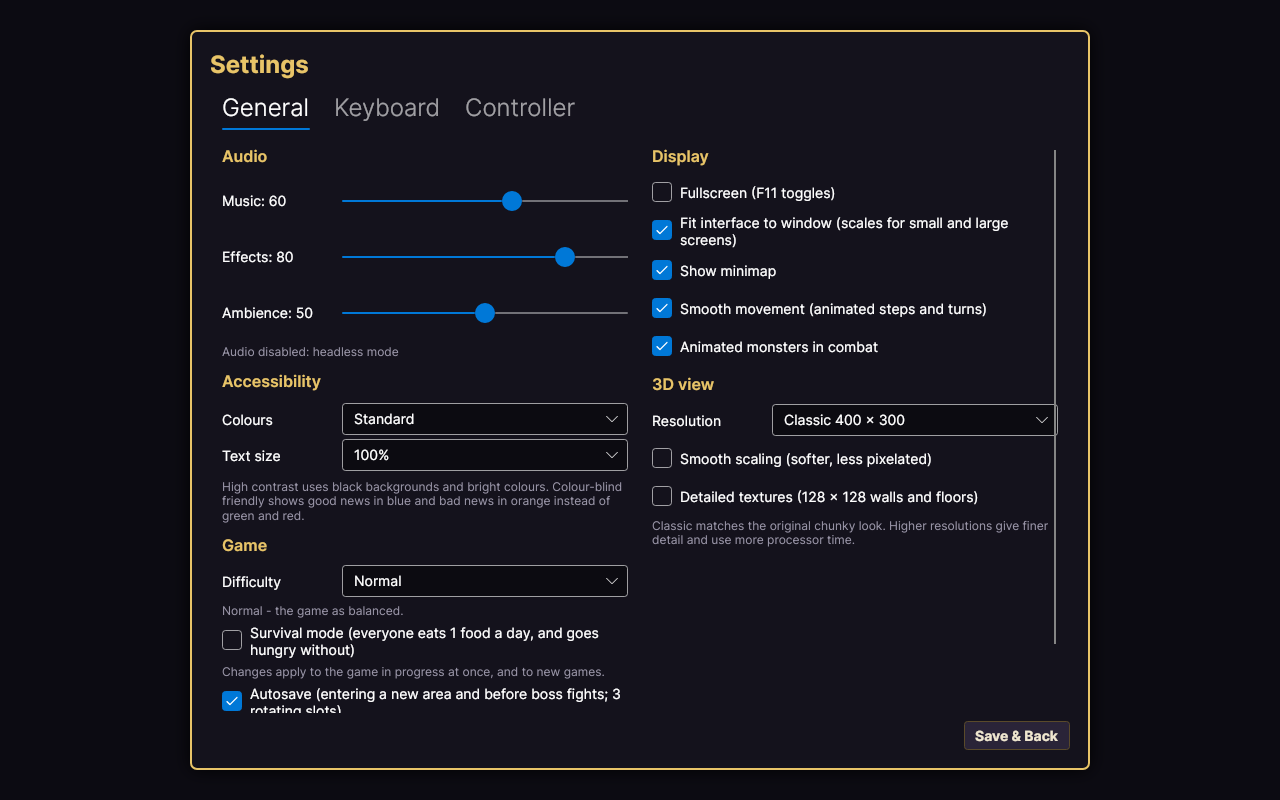
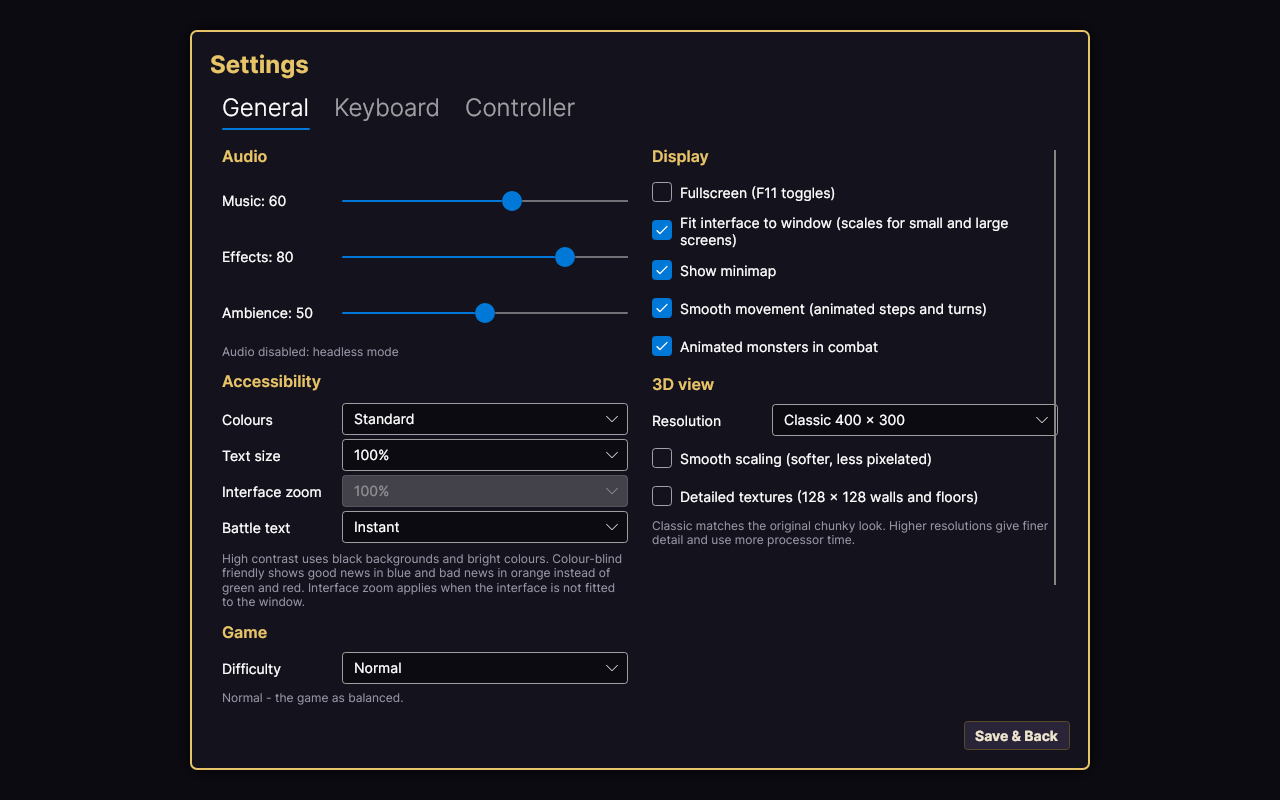
Accessibility: interface zoom, battle text speed, LOW health badge

Changed region(s): [[0.1562, 0.5938, 0.5, 0.9062]]

diff --git a/src/AVAMMB1.App/ViewModels/CombatViewModel.cs b/src/AVAMMB1.App/ViewModels/CombatViewModel.cs
@@ -185,14 +185,89 @@ public sealed partial class CombatViewModel : ViewModelBase
     /// <summary>Whether the active character knows spells.</summary>
     public bool CanCast => _combat.ActiveCharacter is { } c && _game.Services.Session.Rules.KnownSpells(c).Any();
 
-    private void AddLog(IEnumerable<GameMessage> messages)
+    private readonly Queue<GameMessage> _logQueue = new();
+    private Avalonia.Threading.DispatcherTimer? _logTimer;
+
+    /// <summary>Milliseconds between battle log lines (the Battle text setting); 0 shows them all at once.</summary>
+    private int LineDelay => _game.Services.Settings.BattleTextSpeed switch { 1 => 150, 2 => 350, 3 => 700, _ => 0 };
+
+    /// <summary>Whether battle lines are still being revealed.</summary>
+    public bool IsRevealing => _logQueue.Count > 0;
+
+    private void AddLog(IEnumerable<GameMessage> messages, bool flush = true)
     {
-        var list = messages.ToList();
-        _game.Services.PlayCues(list);
-        foreach (var m in list.Where(m => m.Text.Length > 0))
+        if (flush)
         {
-            Log.Add(new MessageViewModel(m));
+            FlushLog(); // acting shows whatever was still waiting at once
         }
+        var list = messages.ToList();
+        if (LineDelay == 0)
+        {
+            _game.Services.PlayCues(list);
+            foreach (var m in list.Where(m => m.Text.Length > 0))
+            {
+                ShowLine(m);
+            }
+            return;
+        }
+        var idle = _logQueue.Count == 0;
+        foreach (var m in list)
+        {
+            _logQueue.Enqueue(m);
+        }
+        if (idle)
+        {
+            RevealNext();
+        }
+        if (_logQueue.Count > 0)
+        {
+            _logTimer ??= new Avalonia.Threading.DispatcherTimer();
+            _logTimer.Interval = TimeSpan.FromMilliseconds(LineDelay);
+            _logTimer.Tick -= OnLogTick;
+            _logTimer.Tick += OnLogTick;
+            _logTimer.Start();
+        }
+    }
+
+    private void OnLogTick(object? sender, EventArgs e)
+    {
+        RevealNext();
+        if (_logQueue.Count == 0)
+        {
+            _logTimer?.Stop();
+        }
+    }
+
+    /// <summary>Shows the next queued line (with its sound), skipping silent sound-only entries.</summary>
+    private void RevealNext()
+    {
+        while (_logQueue.TryDequeue(out var m))
+        {
+            _game.Services.PlayCues([m]);
+            if (m.Text.Length > 0)
+            {
+                ShowLine(m);
+                return;
+            }
+        }
+    }
+
+    /// <summary>Shows every queued line at once.</summary>
+    public void FlushLog()
+    {
+        _logTimer?.Stop();
+        while (_logQueue.TryDequeue(out var m))
+        {
+            if (m.Text.Length > 0)
+            {
+                ShowLine(m);
+            }
+        }
+    }
+
+    private void ShowLine(GameMessage m)
+    {
+        Log.Add(new MessageViewModel(m));
         while (Log.Count > 60)
         {
             Log.RemoveAt(0);
@@ -330,7 +405,7 @@ public sealed partial class CombatViewModel : ViewModelBase
     {
         var outcome = _combat.Outcome;
         var (_, rewards) = _game.Services.Session.EndCombat();
-        AddLog(rewards);
+        AddLog(rewards, flush: false); // after the last blows have been read
         _game.AddMessages(rewards.Select(r => r with { Sound = null }));
         Phase = CombatPhase.Finished;
         Prompt = outcome switch
@@ -527,9 +602,9 @@ public sealed partial class CombatViewModel : ViewModelBase
 
     private void AutoStep()
     {
-        if (!IsAutoFighting)
+        if (!IsAutoFighting || IsRevealing)
         {
-            return;
+            return; // let the battle text catch up first
         }
         if (Phase == CombatPhase.Opening)
         {
@@ -689,7 +764,11 @@ public sealed partial class CombatViewModel : ViewModelBase
     }
 
     [RelayCommand]
-    private void Continue() => _game.CombatFinished();
+    private void Continue()
+    {
+        FlushLog();
+        _game.CombatFinished();
+    }
 
     /// <summary>True while a list (spells, items, allies) is open, where the D-pad should move between buttons.</summary>
     public bool WantsMenuNavigation => Phase is CombatPhase.Spell or CombatPhase.Item or CombatPhase.Ally;

diff --git a/src/AVAMMB1.App/ViewModels/InfoViewModels.cs b/src/AVAMMB1.App/ViewModels/InfoViewModels.cs
@@ -121,6 +121,7 @@ public sealed partial class HelpViewModel : ViewModelBase
         new("Lanterns and oil", "A Brass Lantern (150 gold) is the brightest light - 8 squares, with a warm glow. Equip it in the Light slot on any character's sheet (select it in the backpack and press Equip or Use); it lights the way for the whole party and burns oil only in dark places (1500 steps when full). The counter at the top right shows the oil left, and you are warned when it runs low. Use a Flask of Oil (4 gold) to add 750 steps - it fills an equipped lantern, or one still in a backpack; a lantern is bought full, so keep flasks until it burns down - or throw one in battle for 2d6 fire damage. Somewhere in the north lies a lantern that never needs oil."),
         new("Day and night", "Time passes as you travel - three minutes a step, eight hours a rest - and the clock is shown under your gold. From 20:00 to 05:00 it is night: under the open sky you see only 4 squares unless your light reaches further (a lantern burns outdoors at night, though not in town), more monsters are about - some only come out after dark - and elites are twice as common. Shops, training grounds and academies close for the night; inns, temples and taverns stay open, and a night at the inn lasts until 07:00."),
         new("Resting and healing", "Rest (R) in a quiet spot to recover. Food is eaten only when you rest - 1 unit per character each time (travelling and nights at an inn use none); a character with no food cannot recover. Buy food at a tavern; the party cards show what each carries. In survival mode (Settings) everyone also eats 1 food a day while travelling, and goes hungry - losing health, though never dying of it - without."),
+        new("Accessibility", "Settings > General: high-contrast or colour-blind friendly colours, larger text, an interface zoom for big screens (when the interface is not fitted to the window), and the battle text speed - Fast, Normal or Slow show battle messages one line at a time (acting shows the rest at once). A badly hurt character's card also says LOW, so it does not depend on colour."),
         new("Saving", "F5 quick-saves; the menu (Esc) saves to nine more slots. The game also autosaves into three rotating slots when you enter a new area and before a boss fight (Settings > Game). Continue on the title screen loads your newest save."),
         new("Shopping", "Each item for sale says how it compares with what the shopper wears - upgrades in green. Sell junk sells all backpack gear that nobody in the party could use as an upgrade; hover over it to see what it would sell."),
         new("Difficulty", "Easy, Normal or Hard - chosen when you create the party and changeable any time in Settings. Easy monsters have a quarter less health and hit a quarter softer, with more gold and fewer encounters; Hard monsters have 30% more health and hit 25% harder, with less gold and more encounters. Poison stops healing and disease halves it - cure them with spells, cure potions or at a temple, which also raises the dead."),

diff --git a/src/AVAMMB1.App/Views/MainWindow.axaml.cs b/src/AVAMMB1.App/Views/MainWindow.axaml.cs
@@ -21,6 +21,7 @@ public partial class MainWindow : Window
     public static readonly Size DesignSize = new(1280, 800);
 
     private readonly Viewbox _scaler = new() { Stretch = Stretch.Uniform };
+    private readonly LayoutTransformControl _zoomer = new();
     private GamepadService? _gamepad;
 
     /// <summary>Creates the window.</summary>
@@ -52,29 +53,41 @@ public partial class MainWindow : Window
     private void ApplyFullscreen(MainViewModel vm) =>
         WindowState = vm.Services.Settings.Fullscreen ? WindowState.FullScreen : WindowState.Normal;
 
-    /// <summary>Fit-to-window renders the 1280x800 layout scaled uniformly; otherwise it fills the window at 100%.</summary>
+    /// <summary>
+    /// Fit-to-window renders the 1280x800 layout scaled uniformly; otherwise it fills the window, enlarged
+    /// by the interface zoom (for big or high-resolution screens).
+    /// </summary>
     private void ApplyLayout(MainViewModel vm)
     {
-        var fit = vm.Services.Settings.FitToWindow;
-        if (fit && ReferenceEquals(Content, Screen))
+        var settings = vm.Services.Settings;
+        var zoom = Math.Clamp(settings.InterfaceZoom, 100, 150) / 100.0;
+        Content = null;
+        _scaler.Child = null;
+        _zoomer.Child = null;
+        if (settings.FitToWindow)
         {
-            Content = null;
             Screen.Width = DesignSize.Width;
             Screen.Height = DesignSize.Height;
             _scaler.Child = Screen;
             Content = _scaler;
             MinWidth = 640;
             MinHeight = 400;
+            return;
         }
-        else if (!fit && ReferenceEquals(Content, _scaler))
+        Screen.Width = double.NaN;
+        Screen.Height = double.NaN;
+        if (zoom > 1.001)
         {
-            _scaler.Child = null;
-            Screen.Width = double.NaN;
-            Screen.Height = double.NaN;
-            Content = Screen;
-            MinWidth = 1024;
-            MinHeight = 700;
+            _zoomer.LayoutTransform = new ScaleTransform(zoom, zoom);
+            _zoomer.Child = Screen;
+            Content = _zoomer;
         }
+        else
+        {
+            Content = Screen;
+        }
+        MinWidth = 1024 * zoom;
+        MinHeight = 700 * zoom;
     }
 
     private void OnKeyDownTunnel(object? sender, KeyEventArgs e)

diff --git a/src/AVAMMB1.App/ViewModels/MenuViewModels.cs b/src/AVAMMB1.App/ViewModels/MenuViewModels.cs
@@ -235,6 +235,8 @@ public sealed partial class SettingsViewModel : ViewModelBase
         _themeIndex = Math.Max(0, Array.IndexOf(ThemeKeys, s.ColorTheme));
         _textScaleIndex = Math.Max(0, Array.IndexOf(TextScales, s.TextScale) is var i and >= 0 ? i : 1);
         _resolutionIndex = Math.Max(0, Array.IndexOf(Resolutions, s.ViewResolution));
+        _zoomIndex = Math.Max(0, Array.IndexOf(Zooms, s.InterfaceZoom));
+        _battleTextIndex = Math.Clamp(s.BattleTextSpeed, 0, 3);
         _smoothView = s.SmoothView;
         _detailedTextures = s.DetailedTextures;
         InGame = returnTo is GameViewModel && main.Services.Session.IsActive;
@@ -300,6 +302,22 @@ public sealed partial class SettingsViewModel : ViewModelBase
     private static readonly int[] Resolutions = [300, 480, 600];
     private readonly Dictionary<InputAction, AVAMMB1.Core.Input.GamepadButton> _pad;
     private PadRow? _capturingPad;
+
+    private static readonly int[] Zooms = [100, 115, 130, 150];
+
+    /// <summary>Interface zoom choices.</summary>
+    public string[] ZoomOptions { get; } = ["100%", "115%", "130%", "150%"];
+
+    /// <summary>Selected interface zoom.</summary>
+    [ObservableProperty]
+    private int _zoomIndex;
+
+    /// <summary>Battle text speed choices.</summary>
+    public string[] BattleTextOptions { get; } = ["Instant", "Fast", "Normal", "Slow"];
+
+    /// <summary>Selected battle text speed.</summary>
+    [ObservableProperty]
+    private int _battleTextIndex;
 
     /// <summary>Theme choices.</summary>
     public string[] ThemeOptions { get; } = ["Standard", "High contrast", "Colour-blind friendly"];
@@ -491,7 +509,10 @@ public sealed partial class SettingsViewModel : ViewModelBase
         s.Fullscreen = Fullscreen;
         s.ShowMinimap = ShowMinimap;
         s.SmoothMovement = SmoothMovement;
-        var layoutChanged = s.FitToWindow != FitToWindow;
+        var zoom = Zooms[Math.Clamp(ZoomIndex, 0, Zooms.Length - 1)];
+        var layoutChanged = s.FitToWindow != FitToWindow || s.InterfaceZoom != zoom;
+        s.InterfaceZoom = zoom;
+        s.BattleTextSpeed = Math.Clamp(BattleTextIndex, 0, 3);
         s.FitToWindow = FitToWindow;
         s.GamepadEnabled = GamepadEnabled;
         s.AnimateMonsters = AnimateMonsters;

diff --git a/src/AVAMMB1.App/Services/HeadlessRunner.cs b/src/AVAMMB1.App/Services/HeadlessRunner.cs
@@ -668,7 +668,26 @@ public static class HeadlessRunner
         game.BeginCombat();
         Pump();
         Capture(dir, "32-choirmaster");
+        // Slow battle text: lines are revealed one at a time; acting (or Continue) shows the rest.
+        vm.Services.Settings.BattleTextSpeed = 3;
         game.Combat!.FightCommand.Execute(null);
+        var held = false;
+        for (var i = 0; i < 12 && !held && s.Combat is not null && game.Combat.IsAction; i++)
+        {
+            game.Combat.BlockCommand.Execute(null); // the monsters answer with several lines
+            held = game.Combat.IsRevealing;
+        }
+        if (!held)
+        {
+            throw new InvalidOperationException("Slow battle text never held lines back.");
+        }
+        game.Combat.FlushLog();
+        if (game.Combat.IsRevealing)
+        {
+            throw new InvalidOperationException("Flushing the battle text left lines waiting.");
+        }
+        vm.Services.Settings.BattleTextSpeed = 0;
+        Console.WriteLine("battle text ok");
         if (s.Combat is not null)
         {
             AutoBattle(s);

diff --git a/src/AVAMMB1.App/ViewModels/PartyMemberViewModel.cs b/src/AVAMMB1.App/ViewModels/PartyMemberViewModel.cs
@@ -43,6 +43,10 @@ public sealed partial class PartyMemberViewModel : ObservableObject
     /// <summary>Whether healthy.</summary>
     public bool IsOk => Character.Conditions == Condition.None;
     /// <summary>HP fraction 0..1.</summary>
+    /// <summary>Badly hurt (a quarter of HP or less, still standing): shown as text too, not only colour.</summary>
+    public bool LowHp => Character.IsAlive && Character.Hp > 0 && Character.Hp * 4 <= Character.MaxHp;
+
+    /// <summary>Hit point fraction.</summary>
     public double HpFraction => Character.MaxHp == 0 ? 0 : Math.Clamp((double)Character.Hp / Character.MaxHp, 0, 1);
     /// <summary>SP fraction 0..1.</summary>
     public double SpFraction => Character.MaxSp == 0 ? 0 : Math.Clamp((double)Character.Sp / Character.MaxSp, 0, 1);

diff --git a/src/AVAMMB1.Core/Persistence/GameSettings.cs b/src/AVAMMB1.Core/Persistence/GameSettings.cs
@@ -72,6 +72,10 @@ public sealed class GameSettings
     public bool SmoothView { get; set; }
     /// <summary>Colour theme: Standard, HighContrast or ColorblindFriendly.</summary>
     public string ColorTheme { get; set; } = "Standard";
+    /// <summary>Interface zoom in percent (100-150) when the interface is not fitted to the window.</summary>
+    public int InterfaceZoom { get; set; } = 100;
+    /// <summary>Delay between battle log lines: 0 instant, 1 fast, 2 normal, 3 slow.</summary>
+    public int BattleTextSpeed { get; set; }
     /// <summary>Text size in percent (90-130).</summary>
     public int TextScale { get; set; } = 100;
     /// <summary>Scale the whole interface to fit the window (off = fixed 100% size).</summary>

diff --git a/CHANGELOG.md b/CHANGELOG.md
@@ -6,6 +6,11 @@ All notable changes to this project are documented here. The format follows
 ## [Unreleased]
 
 ### Added
+- Accessibility: an interface zoom (100-150%) for big or high-resolution screens when the interface
+  is not fitted to the window; a battle text speed (Instant, Fast, Normal, Slow) that shows battle
+  messages one line at a time (acting, or Continue, shows the rest; auto-fight waits for the text);
+  and a LOW badge with bold hit points on the card of a badly hurt character, so it does not depend
+  on colour.
 - The Silent Choir, a mid-game quest chain (levels 8-12) through all six towns. Magistrate Holloway
   in Brindlemoor, Loremaster Durin in Thornwick (a ledger to take from the Choir's bursar in the Deep
   Mines), the Saltreach Customs House, Sister Veyl in Duskmere, the Sealed Archive in Port Ashkar (a

diff --git a/README.md b/README.md
@@ -68,6 +68,8 @@ Code identifiers, the solution and executables use the name **`AVAMMB1`** (`AVAM
 - **Towns** with inns (rest, save, roster of up to 18 characters), temples (heal, cure, raise dead,
   donate), taverns (food, rumors), smithies and magic shops, training grounds, and **academies**
   where gold buys permanent statistic points (each lesson dearer than the last - a late-game gold sink).
+- **Accessibility**: high-contrast and colour-blind friendly themes, larger text, an interface zoom,
+  adjustable battle text speed, and text cues (LOW) that don't depend on colour.
 - **Autosave and save pictures**: three rotating autosaves (new areas, before bosses); every save
   shows a picture of the view and the time played.
 - **Shopping help**: gear for sale is compared with what the shopper wears, and "Sell junk" sells
